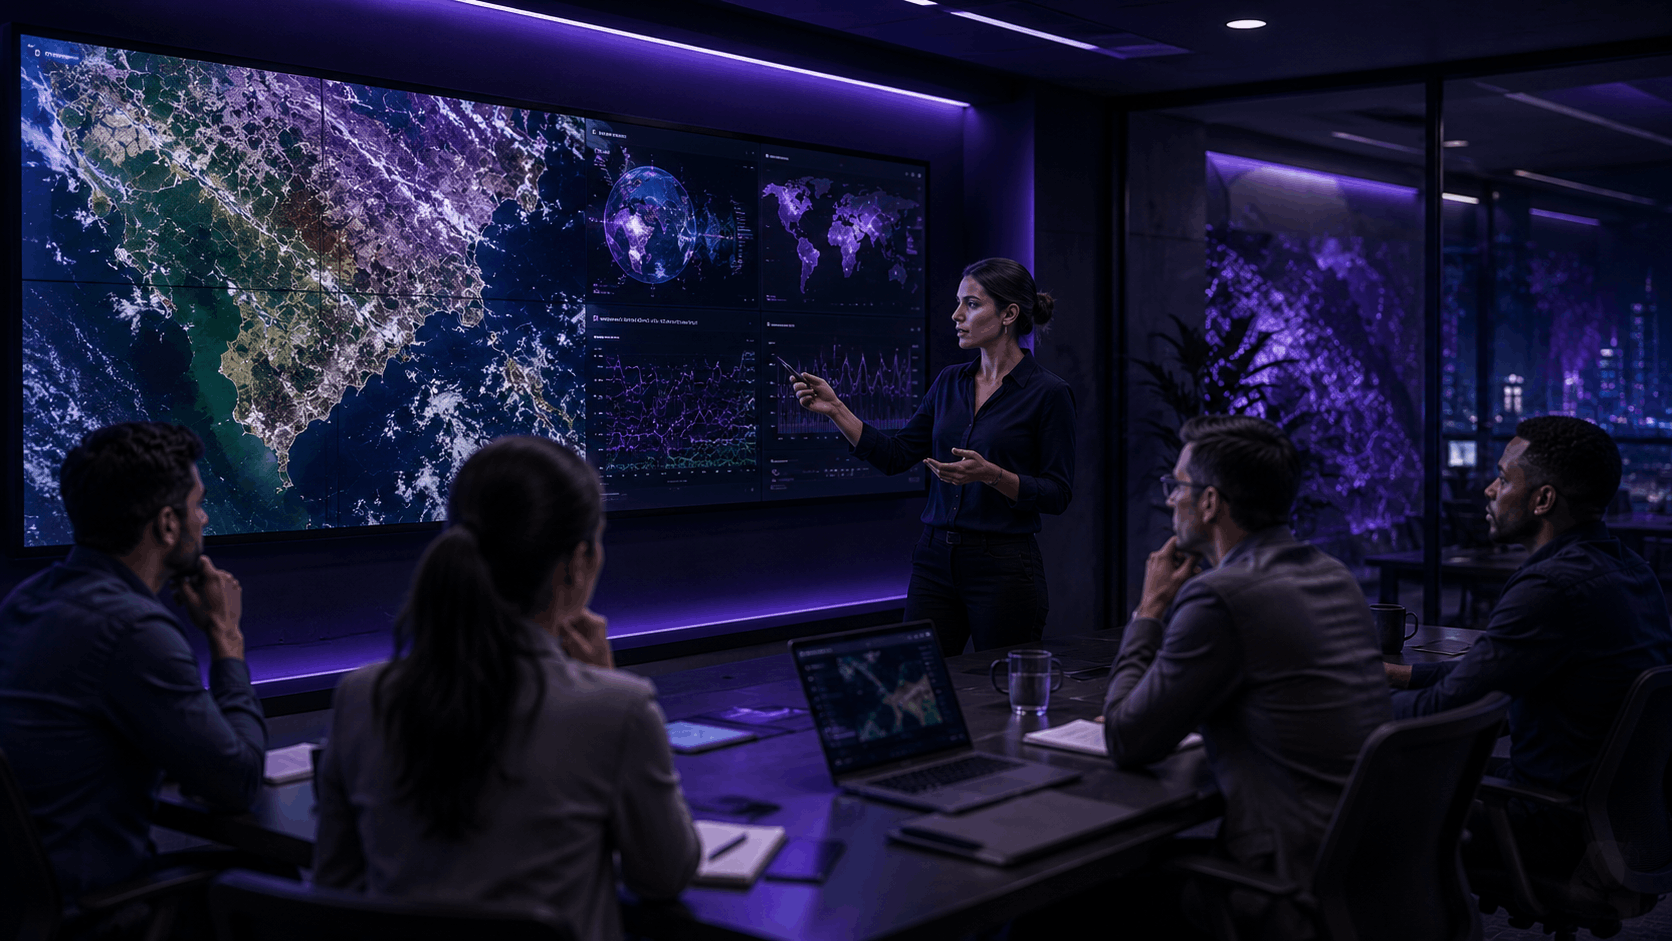
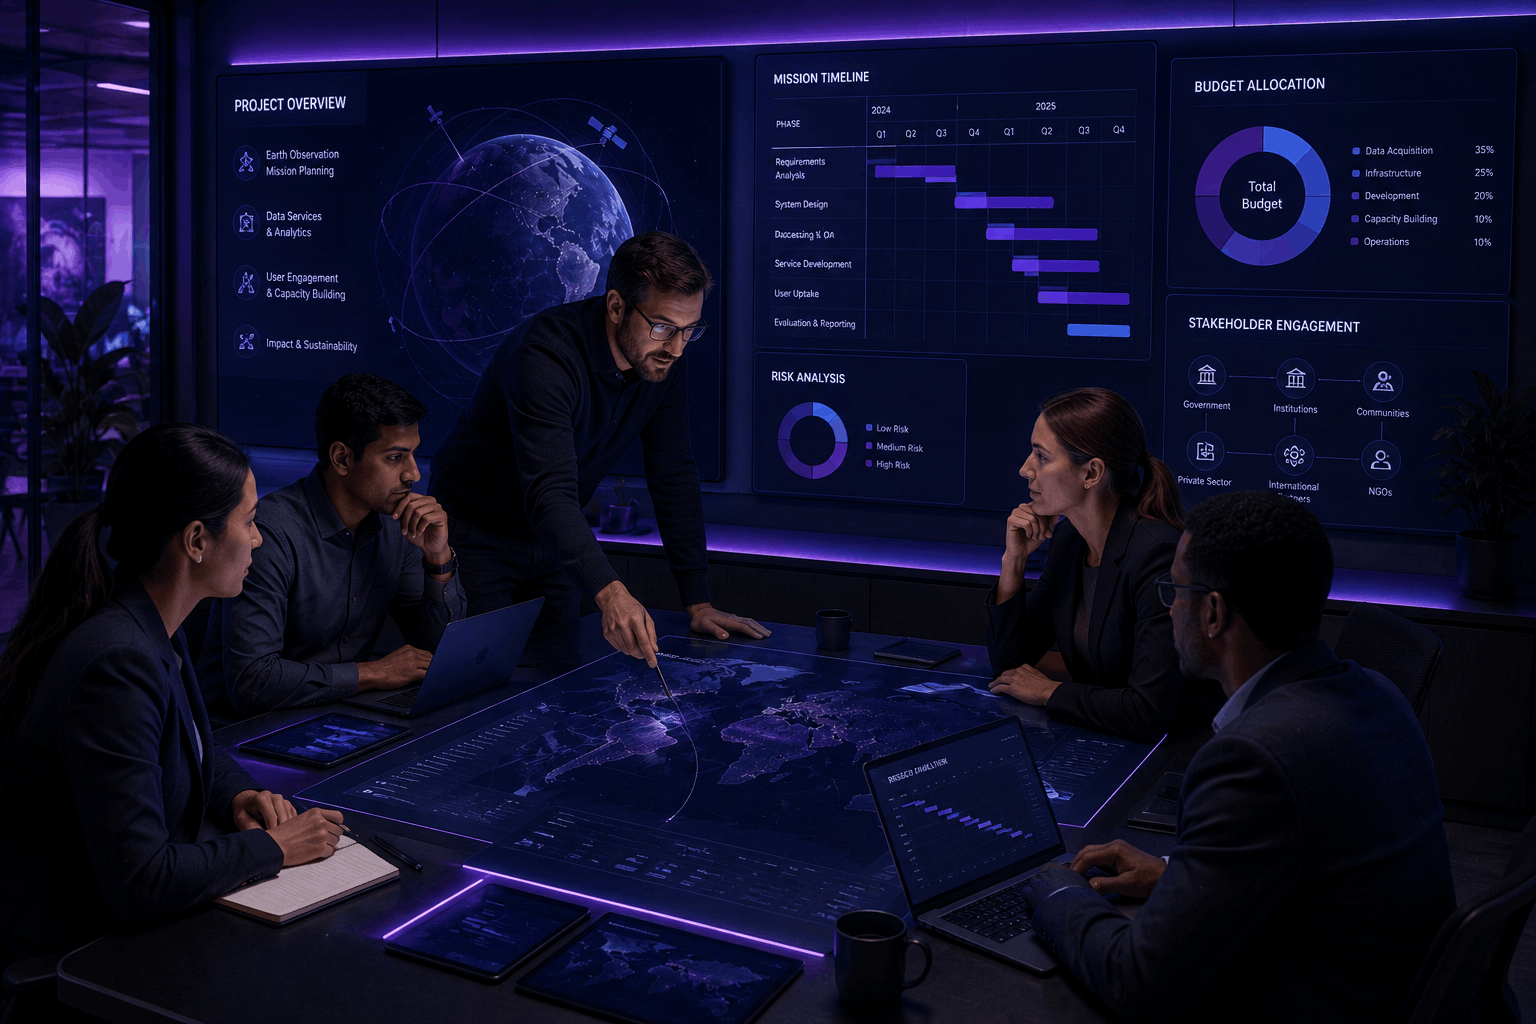
PM removed

diff --git a/client/src/pages/Home.jsx b/client/src/pages/Home.jsx
@@ -14,8 +14,6 @@ import {
   communicationsImgDark,
   trainingsImgLight,
   trainingsImgDark,
-  projectManagementImgLight,
-  projectManagementImgDark,
 } from '../assets/services/index.js'
 
 /* ── Page variants ─────────────────────────────── */
@@ -50,13 +48,13 @@ const SERVICES = [
     link: '/services/trainings',
     delay: 0.2,
   },
-  {
+  /* {
     number: '04', icon: 'pm',
     title: 'Project Management',
     description: 'Strategic oversight and coordination of Earth Observation projects across public, private, and international stakeholder environments.',
     link: '/services/project-management',
     delay: 0.3,
-  },
+  }, */
 ]
 
 const STATS = [
@@ -72,7 +70,7 @@ const FLOAT_LABELS = [
   { label: 'Change Detection',  top: '38%', left: '-12%',  delay: 1.7 },
 ]
 
-const MARKET_FACTS = [
+/* const MARKET_FACTS = [
   {
     value: '$46.8B',
     label: 'Projected global satellite market by 2031',
@@ -93,7 +91,7 @@ const MARKET_FACTS = [
     label: 'Of Essential Climate Variables',
     sub: 'Can be addressed by satellite data',
   },
-]
+] */
 
 const ORBIT_NODES = [
   { label: 'ESA',      cx: 80,  cy: 230 },
@@ -119,11 +117,11 @@ const SERVICE_VISUALS = [
     imgDark: trainingsImgDark,
     imgLight: trainingsImgLight,
   },
-  {
+  /* {
     title: 'Project Management',
     imgDark: projectManagementImgDark,
     imgLight: projectManagementImgLight,
-  },
+  }, */
 ]
 
 

diff --git a/client/src/assets/services/index.js b/client/src/assets/services/index.js
@@ -4,8 +4,6 @@ import communicationsImgLight from './communications-light.png'
 import communicationsImgDark from './communications-dark.png'
 import trainingsImgLight from './trainings-light.png'
 import trainingsImgDark from './trainings-dark.png'
-import projectManagementImgLight from './project-management-light.png'
-import projectManagementImgDark from './project-management-dark.png'
 
 export {
     remoteSensingImgLight,
@@ -14,6 +12,4 @@ export {
     communicationsImgDark,
     trainingsImgLight,
     trainingsImgDark,
-    projectManagementImgLight,
-    projectManagementImgDark,
 }

diff --git a/client/src/pages/styles/Home.css b/client/src/pages/styles/Home.css
@@ -309,7 +309,7 @@
 
 .home-service-visual-grid {
   display: grid;
-  grid-template-columns: repeat(4, 1fr);
+  grid-template-columns: repeat(3, 1fr);
   gap: 1.25rem;
   margin-bottom: 1.5rem;
 }
